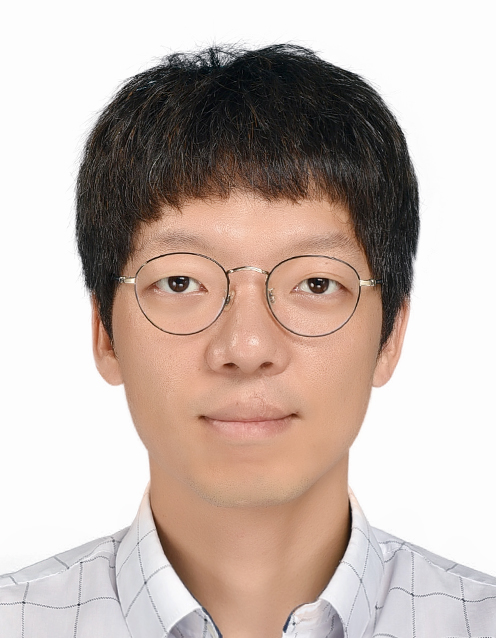
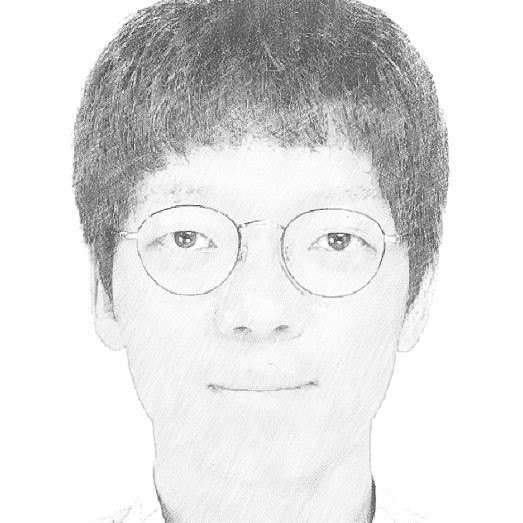
프로필 사진 변경 ^^

diff --git a/assets/css/main.scss b/assets/css/main.scss
@@ -8,13 +8,7 @@
 @import "minimal-mistakes/skins/{{ site.minimal_mistakes_skin | default: 'default' }}"; // skin
 @import "minimal-mistakes"; // main partials
 
-/* type scale */
-// $type-size-1: 0.75em !default; // ~39.056px
-// $type-size-2: 0.75em !default; // ~31.248px
-// $type-size-3: 0.75em !default; // ~25.008px
-// $type-size-4: 0.75em !default; // ~20px
-// $type-size-5: 0.75em !default; // ~16px
-
+/* type scale 
 $type-size-1: 2.441em !default; // ~39.056px
 $type-size-2: 1.953em !default; // ~31.248px
 $type-size-3: 1.563em !default; // ~25.008px
@@ -23,23 +17,24 @@ $type-size-5: 1em !default; // ~16px
 $type-size-6: 0.75em !default; // ~12px
 $type-size-7: 0.6875em !default; // ~11px
 $type-size-8: 0.625em !default; // ~10px
+*/
 
-html {
-  font-size: 16px; // change to whatever
+// html {
+//   font-size: 16px; // change to whatever
 
-  @include breakpoint($medium) {
-    font-size: 16px; // change to whatever
-  }
+//   @include breakpoint($medium) {
+//     font-size: 16px; // change to whatever
+//   }
 
-  @include breakpoint($large) {
-    /* large 페이지 일때 폰트 사이즈 축소 20px->18px */
-    /* font-size: 20px; */
-    font-size: 18px;
-  }
+//   @include breakpoint($large) {
+//     /* large 페이지 일때 폰트 사이즈 축소 20px->18px */
+//     /* font-size: 20px; */
+//     font-size: 18px;
+//   }
 
-  @include breakpoint($x-large) {
-    /* x-large 페이지 일때 폰트 사이즈 축소 20px->18px */
-    /* font-size: 20px; */
-    font-size: 18px;
-  }
-}
+//   @include breakpoint($x-large) {
+//     /* x-large 페이지 일때 폰트 사이즈 축소 20px->18px */
+//     /* font-size: 20px; */
+//     font-size: 18px;
+//   }
+// }
